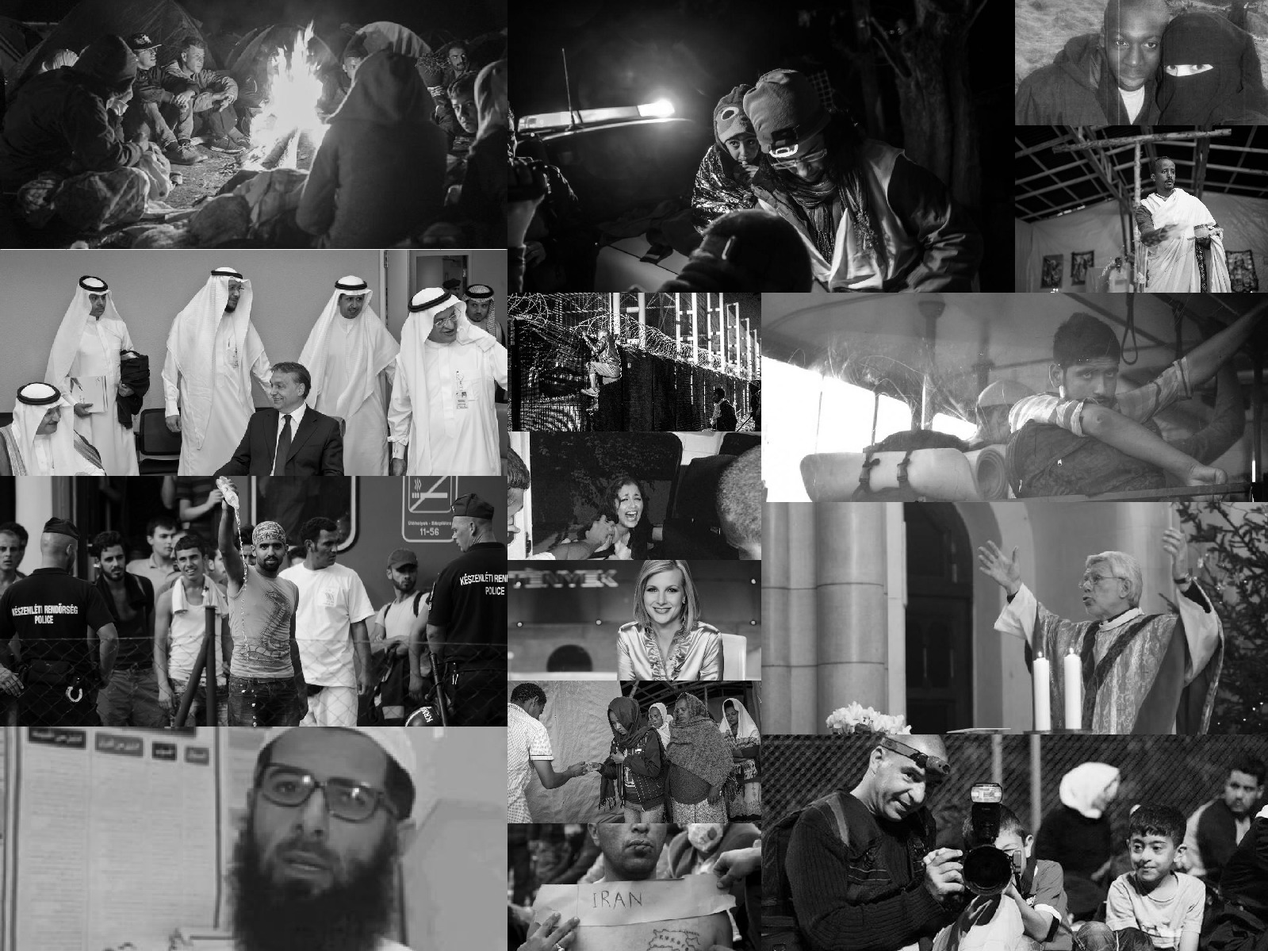
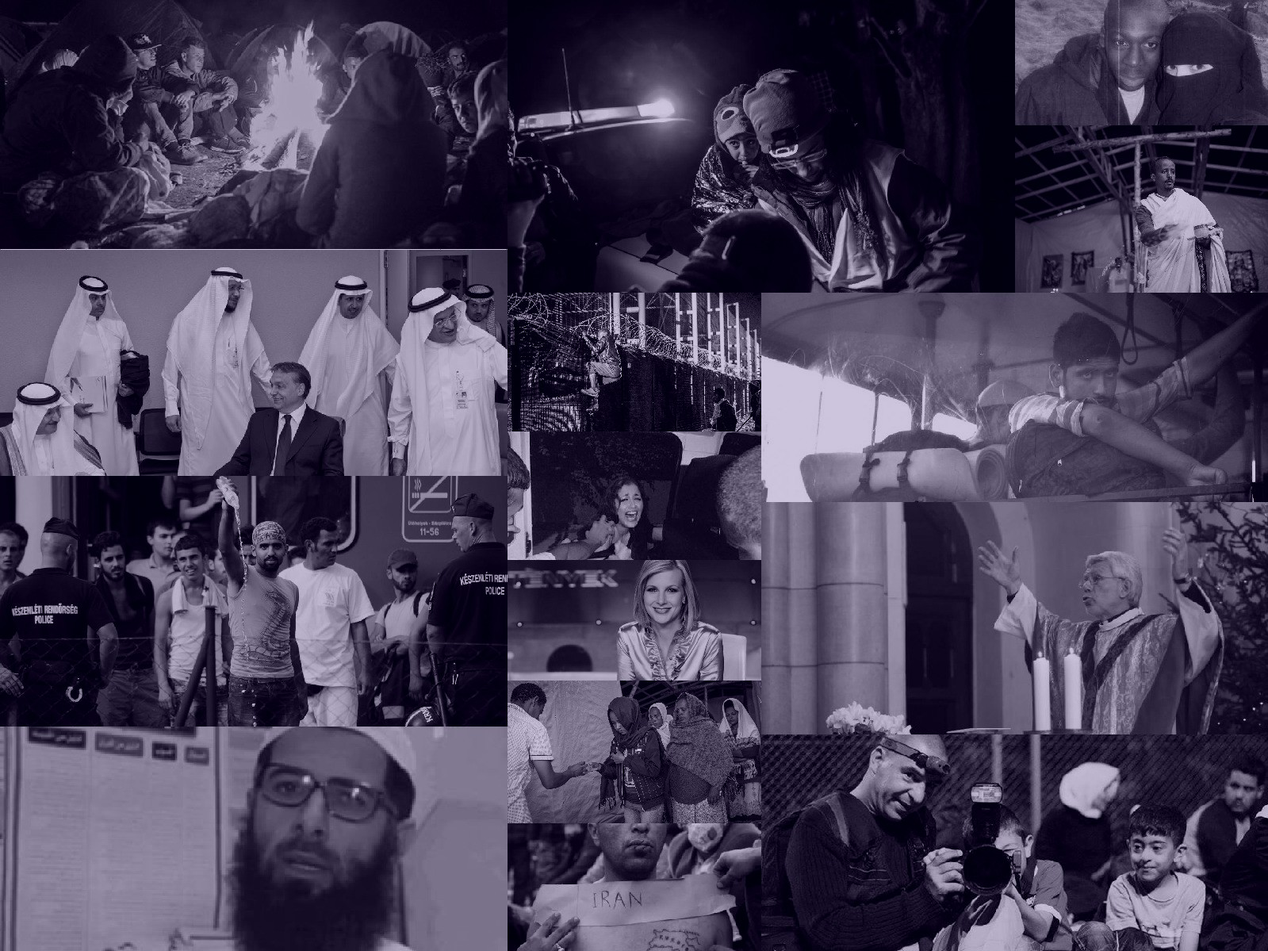
beautify pics, charts + add text

diff --git a/facesofmigration_grayscale/index.html b/facesofmigration_grayscale/index.html
@@ -67,9 +67,11 @@
                     <li>
                         <a class="page-scroll" href="#emotions-title">Emóciók</a>
                     </li>
+<!--
                     <li>
                         <a class="page-scroll" href="#tools-title">Eszközök, források</a>
                     </li>
+-->
                     <li>
                         <a class="page-scroll" href="#credits">Impresszum</a>
                     </li>
@@ -88,7 +90,9 @@
                     <div class="col-md-8 col-md-offset-2">
                         <h1 class="brand-heading">A migráció arcai</h1>
                         <p class="intro-text">Képi tartalomelemzés
-                            <br>Az online médiában 2014.09.27. és 2016.06.11. megjelent 42.845 cikkből kinyert 10330 kép elemzése.</p>
+                            <br>Az online médiában 2014.09.27. és 2016.06.11. megjelent 42.845 cikkből kinyert 10330 kép elemzése.
+                            <br>Nyelvtechnológia, képfeldolgozás, gépi tanulás, deep learning
+                        </p>
                         <a href="#intro" class="btn btn-circle page-scroll">
                             <i class="fa fa-angle-double-down animated"></i>
                         </a>
@@ -105,8 +109,11 @@
                 <h1>Milyen képek jelentek meg a migráció kapcsán az online médiában?</h1>
                 <p>Az elmúlt években napjaink részévé váltak a migránsokról szóló hírek. Elemzésünkben 2014.09.27. és 2016.06.11. az online médiában megjelent cikkek képeit vizsgáljuk. Egy korábbi írásunkban már foglalkoztunk a cikkek szövegeivel a <a href="https://www.nyest.hu/hirek/migransok-menekulok-bevandorlok-mit-sulykol-a-media">nyesten</a> és készítettünk egy <a href="http://labs.precognox.com/migration-dashboard/#/dashboard">dashboardot</a> is, amivel bárki felfedezheti milyen tartalmak jelentek meg a vizsgált időszak alatt. A képi tartalmakat azért tartjuk külön elemzésre érdemesnek, mert a téma meghatározó volta ellenére honfitársaink többsége kizárólag a médiában megjelenő képeken találkozik migránsokkal, ezért úgy gondoljuk, gondolkodásukat nagyban befolyásolja, mit látnak.</p>
                 
-                <h2>Az adatokról</h2>
+                <h2>Az adatok</h2>
                 <p>A korpusz begyűjtéséhez igyekeztük összeszedni a nagyobb hazai online híroldalakat (a teljes listát a dashboardon lehet megtekinteni, a domain szűrűre kattintva). Az egyes oldalak keresőit használva migrációval kapcsolatos kulcsszavakra kerestünk (pl. bevándorló, migráns, stb.), majd a találati oldalakat felhasználva begyűjtöttük a cikkeket. A nyers adatokat hasonlósági metrikát használva csoportosítottuk, a kapott csoportokat annotátoraink megvizsgálták, így kiszűrtük a nem releváns tartalmak javát és a duplikátumokat is. A gyűjtés eredménye 42.845 cikk lett. A cikkekből kinyertük a képeket, ennek eredménye 42.311 darab kép lett, azonban ennek jelentős része nem releváns. Ezek egy részét egyszerű heurisztikával tudtuk szűrni, mivel bizonyos méret alatt képek általában céges logók, vagy az adott oldal nevét jelenítik meg. A szövegekhez hasonlóan itt is hasonlósági hasonló csoportokat képeztünk (a simhash algoritmust használtuk), melyeket annotátoraink néztek át, hogy ki tudjuk szűrni a duplikátumokat és a nem releváns képeket. Végezetül a cikkünkben később leírt topik modellezés segítségével is tudunk azonosítani nem releváns képeket, így 10330 egyedi képünk maradt, melyek XXXXX alkalommal fordulnak elő a cikkekben.</p>
+                
+                <h2>Eredményeink értelmezéséhez</h2>
+                <p>A begyűjtött képeket automatikusan dolgoztuk fel, hiszen több mint tízezer kép alapos megvizsgálása rengeteg időt venne igénybe. Az alkalmazott algoritmusok jellemzője, hogy nem adnak 100%-os eredményt. Fontos kiemelni, hogy mind a demográfiai jellemzők, mind az emóciók kinyerése nagyban függ az arcfelismerő algoritmustól, hiszen feltételezik, hogy egy emberi arcot ábrázoló képet kapnk. Így nem tudnak számot adni a ki nem nyert arcokról, de a hibásan arcként azonosított alakzatokra is eredményt adnak. Az automatikus tartalomelemzés nem helyettesítheti az emberi munkát, csupán segítheti azzal, hogy jól előfeldolgozott adatokat ad értő kezekbe. Vizsgálatunkban erőforrások hiányában a minimális a humán értelmezés, éppen ezért az itt közölt eredmények csak tájékoztató jellegűek.</p>
             </div>
         </div>
     </section>
@@ -230,7 +237,9 @@
         <div class="row">
             <div class="col-lg-8 col-lg-offset-2">
                 <h2>Hogy kapcsolódnak egymáshoz az egyes topikok?</h2>
-                <p>Az egyes topikok közötti kapcsolat alapja az, hogy hányszor fordultak elő együtt egy-egy kép első három, leginkább jellemző topikjaként.</p>
+                <p>Az egyes topikok közötti kapcsolat alapja az, hogy hányszor fordultak elő együtt egy-egy kép első három, leginkább jellemző topikjaként. <br />
+                Az "Adatok" topik központi szerepének oka egyszertű; sokszor szerepel valamilyen felirat a képeken, legyen az útjelzőtábla, felirat egy pólón, vagy egy névtábla egy előadó előtt.
+                </p>
             </div>
         </div>
             <object data="img/topic_graph.svg" type="image/svg+xml" style="width: 70vw; height: 50vw;">
@@ -255,12 +264,18 @@
     <section id="pictures-intro" class="container content-section text-center">
         <div class="row">
             <div class="col-lg-8 col-lg-offset-2">
-                <h1>Hogyan dolgoztuk fel a képeket</h1>
-                <p>blabla blabla blabla blabla blabla blabla blabla blabla blabla blabla blabla blabla blabla blabla blabla blabla blabla blabla blabla blabla blabla blabla blabla blabla blabla blabla blabla blabla blabla blabla blabla blabla blabla blabla blabla blabla blabla blabla blabla blabla blabla blabla blabla blabla blabla blabla blabla blabla blabla blabla blabla blabla blabla blabla blabla blabla blabla blabla blabla blabla blabla blabla blabla blabla blabla blabla blabla blabla blabla blabla blabla blabla blabla blabla blabla blabla blabla blabla blabla blabla blabla blabla blabla blabla blabla blabla blabla blabla blabla blabla blabla blabla blabla blabla blabla blabla blabla blabla blabla blabla blabla blabla blabla blabla blabla blabla blabla blabla blabla blabla blabla blabla blabla blabla blabla blabla blabla blabla blabla blabla blabla blabla blabla blabla blabla blabla blabla blabla blabla blabla blabla blabla blabla blabla blabla blabla blabla blabla blabla blabla blabla blabla blabla blabla blabla blabla blabla blabla blabla blabla blabla blabla </p>
+                <h1>Képfeldolgozás</h1>
                 
-                <h2>A Deep Learningről</h2>
-                <p>blabla blabla blabla blabla blabla blabla blabla blabla blabla blabla blabla blabla blabla blabla blabla blabla blabla blabla blabla blabla blabla blabla blabla blabla blabla blabla blabla blabla blabla blabla blabla blabla blabla blabla blabla blabla blabla blabla blabla blabla blabla blabla blabla blabla blabla blabla blabla blabla blabla blabla blabla blabla blabla blabla blabla blabla blabla blabla blabla blabla blabla blabla blabla blabla blabla blabla blabla blabla blabla blabla blabla blabla blabla blabla blabla blabla blabla blabla blabla blabla blabla blabla blabla blabla blabla blabla blabla blabla blabla blabla blabla blabla blabla blabla blabla blabla blabla blabla blabla blabla blabla blabla blabla blabla blabla blabla blabla blabla blabla blabla blabla blabla blabla blabla blabla blabla blabla blabla blabla blabla blabla blabla blabla blabla blabla blabla blabla blabla blabla blabla blabla blabla blabla blabla blabla blabla blabla blabla blabla blabla blabla blabla blabla blabla blabla blabla blabla blabla blabla blabla blabla blabla blabla blabla blabla blabla </p>
+                <h2>Arcfelismerés</h2>
+                <p>Kipróbáltunk több szabadon elérhető arcfelismerő eszközt is, de végül az <a href="http://opencv.org/">OpenCV</a> könyvtár előre trénelt Haar Cascade modellje mellett döntöttünk. Döntésünk során figyelembe kellett vennünk, hogy képeink többsége "spontán" pillanatokat ábrázol, azaz a rajtuk látható emberek gyakran nem a kamera felé néznek éppen, fejükön kalap, kapucni, vagy fejkendő van, esetleg éppen esznek s kezüket szájuk előtt tartják. A Haar Cascade a szakirodalom szerint akár 90%-os pontosságú is lehet, ezt esetünkben bizonyosan meg sem közelíti, de a többi vizsgált algoritmussal szemben sokkal kisebb fals pozitív eredményt adott, ezért választottuk ki.</p>
                 
+                <h2>Nem- és kormeghatározás</h2>
+                <p>Több szabadon elérhető eszköz megvizsgálása után úgy döntöttünk, hogy saját osztályozót készítünk a nem- és kormeghatározáshoz. Tanítadathalmazunk az <a href="https://data.vision.ee.ethz.ch/cvl/rrothe/imdb-wiki/">IMDB-WIKI-500k</a> adathalmaz volt, ami az IMDB adatbázisban szereplő színészek képeit és a róluk elérhető adatokat (nem, kor) tartalmazza. Az adatokon a <a href="https://keras.io/">Keras</a> deep learning keretrendszer segítségével egy-egy <a href="https://en.wikipedia.org/wiki/Convolutional_neural_network">konvolúciós neurális hálót</a> tréneltünk nem- és kormeghatározásra. A kormeghatározás pontossága 81%-os, osztályozónk főleg a 14 évesnél fiatalabb és a hatvannál idősebb emberek esetében téved, illetve a 30-40 közötti kategórákban. A nemazonosítás pontossága 77%, itt a 14 alattiak esetében szinte mindig férfi, a 60 felettieknél miding női címkét ad vissza algoritmusunk. Ha öszevetjük a kor és nem adatokat, azt látjuk, hogy a nők esetében +/- 5 évet, a férfiak esetében +/- 3 évet téved átlagosan algoritmusunk.</p>
+                
+                <h2>Emóciók</h2>
+                <p> IDE JÖN GERGŐ SZÖVEGE MAJD blabla blabla blabla blabla blabla blabla blabla blabla blabla blabla blabla blabla blabla blabla blabla blabla blabla blabla blabla blabla blabla blabla blabla blabla blabla blabla blabla blabla blabla blabla blabla blabla blabla blabla blabla blabla blabla blabla blabla blabla blabla blabla blabla blabla blabla blabla blabla blabla blabla blabla blabla blabla blabla blabla blabla blabla blabla blabla blabla blabla blabla blabla blabla blabla blabla blabla blabla blabla blabla blabla blabla blabla blabla blabla blabla blabla blabla blabla blabla blabla blabla blabla blabla blabla blabla blabla blabla blabla blabla blabla blabla blabla blabla blabla blabla blabla blabla blabla blabla blabla blabla blabla blabla blabla blabla blabla blabla blabla blabla blabla blabla blabla blabla blabla blabla blabla blabla blabla blabla blabla blabla blabla blabla blabla blabla blabla blabla blabla blabla blabla blabla blabla blabla blabla blabla blabla blabla blabla blabla blabla blabla blabla blabla blabla blabla blabla blabla blabla blabla blabla blabla blabla blabla blabla blabla blabla </p>
+                
+                <p>A szabadon elérhető emóciófelismerő eszközök áttekintése után úgy döntöttünk, hogy saját algoritmust tanítunk be, amihez a <a href="https://www.kaggle.com/c/challenges-in-representation-learning-facial-expression-recognition-challenge/data">fer2013 adathalmazt</a> használtuk. Ehhez a feladathoz is a <a href="https://keras.io/">Keras</a> deep learning keretrendszer segítségével  tréneltünk egy <a href="https://en.wikipedia.org/wiki/Convolutional_neural_network">konvolúciós neurális hálót</a>, mely pontossága 70% (azaz az adott emócióként azonosított képek ekkora hányadára valós a megállapítása), felidézése pedig 58% (azaz adott emócióhoz tartozó képek ekkora hányadát azonosítja). Eredményeink nem a legjobbak, de figyelembe véve, hogy egy ember számára is nehézséget jelent pusztán egy arc alapján azonosítani ey emóciót, megelégedhetünk az elért teljesítménnyel. Algoritmusunk szeret biztosra menni, ezért ha hibázik, akkor neutrálisnak tippeli az adott arckifejezést. Szintén gyakori hiba a meglepődés örömként történő azonosítása, illetve a negatív érzelmek összekeverése. Ha a nem és kor adatokkal is kiegészítjük vizsgálódásunkat, azt találjuk, hogy nők és húszév alattiak esetében sokkal gyakoribbak a hibák, a legjobban középkorú férfiaknál tippeli meg algoritmusunk az adott arckifejezés mögött rejlő emóciót.</p>
             </div>
         </div>
     </section>
@@ -456,9 +471,6 @@
                 <h1>Az egyes topikokhoz tartozó képek demográfiai jellemzői</h1>
                 <p>Az egyik toposz a mobilozó fiatal fiúk, a katonaság elől elszaladók, stb. A UNHCR adatai alapján igaz az, hogy inkább fiatal férfiak a migránsok (na jó, amiket nézegettem adatok, az alapján igaz ez, de nem szedtem le még az EU-27 adatait), de vajon a médiában megjelenő képek mennyire mutatják a valós arányokat?</p>
                 
-                <h2>Arcfelismerés, kor- és nemazonosítás - egy kis gépi tanulás és mesterséges intelligencia</h2>
-                <p>Arcfelismerésre Python OpenCV Haar Cascade, kor- és nemazonosításhoz IMDB dataset-re Kerasban épített CNN. A kiértékelés alapján azt mondhatjuk, hogy adataink inkább tájékoztató jellegűek, de ekkora képmennyiségnél örülünk, hogy ez pár óra alatt lefut és nem kell átnézni a képeket magunknak.</p>
-                
                 <h2>Mit tudunk a regisztrált menekültek demográfiai jellemzőiről?</h2>
                 <p>Ide jöhez hogy a statisztika 18-59 meg egyéb kategóriákat használ.</p>
             </div>
@@ -481,22 +493,54 @@
       <li data-target="#myCarousel" data-slide-to="Topik 0" class="active"></li>
       <li data-target="#myCarousel" data-slide-to="1"></li>
       <li data-target="#myCarousel" data-slide-to="2"></li>
+      <li data-target="#myCarousel" data-slide-to="3"></li>
+      <li data-target="#myCarousel" data-slide-to="4"></li>
+      <li data-target="#myCarousel" data-slide-to="6"></li>
+
     </ol>
 
     <!-- Wrapper for slides -->
     <div class="carousel-inner">
       <div class="item active">
-        <iframe src="iframes/test.html" style="height: 80vw; width: 80vw;" frameBorder="0" scrolling="no"></iframe>
-
+          <iframe src="iframes/test.html" style="height: 50vw; width: 80vw;" frameBorder="0" scrolling="no"></iframe>
+           <div class="carousel-caption">
+      	         <h3>Nagyobb csoportok: táborban, Keletinél, tüntetésen, fronton</h3>
+            </div>
       </div>
 
       <div class="item">
-        <iframe src="iframes/test.html" style="height: 80vw; width: 80vw;" frameBorder="0" scrolling="no"></iframe>
-
+        <iframe src="iframes/test.html" style="height: 50vw; width: 80vw;" frameBorder="0" scrolling="no"></iframe>
+         <div class="carousel-caption">
+      	         <h3>Kisebb csoportok, egyéni portrék: menekültek, média személyiségek, vallási vezetők</h3>
+            </div>
       </div>
     
       <div class="item">
-        <iframe src="iframes/test.html" style="height: 80vw; width: 80vw;" frameBorder="0" scrolling="no"></iframe>
+        <iframe src="iframes/test.html" style="height: 50vw; width: 80vw;" frameBorder="0" scrolling="no"></iframe>
+           <div class="carousel-caption">
+      	         <h3>Úton: vonat, busz, hajó, gyalog</h3>
+            </div>
+      </div>
+        
+        <div class="item">
+        <iframe src="iframes/test.html" style="height: 50vw; width: 80vw;" frameBorder="0" scrolling="no"></iframe>
+           <div class="carousel-caption">
+      	         <h3>Kisebb csoportok: családok, egyének, menekültek, politikusok, fegyveres testületek tagjai</h3>
+            </div>
+      </div>
+        
+        <div class="item">
+        <iframe src="iframes/test.html" style="height: 50vw; width: 80vw;" frameBorder="0" scrolling="no"></iframe>
+           <div class="carousel-caption">
+      	         <h3>Egyéni portrék, kis csoportok: politikusok, véleményformálók, ismert emberek</h3>
+            </div>
+      </div>
+        
+        <div class="item">
+        <iframe src="iframes/test.html" style="height: 50vw; width: 80vw;" frameBorder="0" scrolling="no"></iframe>
+           <div class="carousel-caption">
+      	         <h3>Átkelés: kerítésnél, határon, tengeren	ut</h3>
+            </div>
       </div>
     </div>
 
@@ -546,11 +590,6 @@
                 <h1>Az egyes topikokban talált arcokon azonosított emóciók</h1>
                 <p>Egyes topikokban, mint például az "Átkelés" és az "Úton" a felismert arcok száma kevesebb mint a képek 10%-a, de a "Nagyobb csoportok" esetében is csupán harmada, még a "Kisebb csoportok: menekültek, médiaszemélyiségek, vallási vezetők", "Kisebb csoportok: családok, egyének, menekültek, politikusok, fegyveres testületek tagjai" és "Egyéni portrék, kis csoportok" esetében a képekhez viszonyítva sok arcot azonosított algoritmusunk. Az "Átkelés" és "Úton" topikokban inkább menekülteket, az "Egyéni potrék, kis csoportok" esetében főleg hazai és európai politikusokat láthatunk, a két kisebb csoportokat tartalmazó topik pedig vegyes. A menekülteket mozgásban mutató képek esetében tehát igazolódni látszik, hogy arctalan tömegként szereti őket mutatni a média. Az arcfelismerés azonban nem csak azért hasznos, mert lehetővé teszi a nem és kor beazonosítását (alogritmikusan bizonyos határok között), de arcunkon óhatatlanul is megjelennek érzelmeink. Érdemes megvizsgálni, hogy a különböző topikokban a történet különböző szereplői milyen érzelmeket nyilvánítanak ki. A szakasz első vizualizációja szertné a különböző topikokban megjelnő hat alapvető érzelmet és a semlegességet összevethetővé tenni.</p>
                 
-                <h2>Emóciófelismerés</h2>
-                <p>Darwin, Ekmann és a szokásos duma</p>
-                
-                <h2>Arc- és emóciófelismerés - egy kis gépi tanulás és mesterséges intelligencia</h2>
-                <p>Python OpenCV Haar Cascade arcra, fer2013 adaton Kerasban trénelt CNN klasszifikációra. Kiértékelés. Téved: semlegesnek tippeli inkább a negatívat, meglepődés inkább öröm</p>
                 
                 <h2>Hogyan alakultak az érzelmek időben? - Szonifikáció</h2>
                 <p>Mivel ismerjük minden egyes cikk publikálásának dátumát, ismerjük a képek (első) megjelnésének idejét is. Az egyes emóciók idősoraiból MIDI hangsávot generáltunk egy-egy hangszerre, a megszólaló hangok erőssége az adott emócióval arányos. A hat (hét, ha semlegesre is megcsináljuk) hangsávot külön-külön mutatja a szekció második vizualizációja, ami valójában szonifikáció, hiszen le is lehet játszani az adatokat.</p>
@@ -570,7 +609,8 @@
         </div>
     </section>
 
-    <!-- Sonification -->
+<!--
+     Sonification 
     <div class="sonic-container">
     <section id="sonic" class="container content-section text-center">
         <div class="row">
@@ -581,8 +621,9 @@
             <iframe src="iframes/sonic.html" style="height: 100vw; width: 70vw;" frameBorder="0" scrolling="no"></iframe>
         </div>
     </section>
+-->
+<!--    
     
-    <!-- Tools Title -->
     <section id="tools-title" class="content-section text-center">
         <div class="tools-section">
             <div class="container">
@@ -593,7 +634,6 @@
         </div>
     </section>
     
-     <!-- Tools Intro -->
     <section id="tools-intro" class="container content-section text-center">
         <div class="row">
             <div class="col-lg-8 col-lg-offset-2">
@@ -641,6 +681,7 @@
                     </ul>
                 </p>
                 
+
                 <h3>A felhasznált képek forrásai</h3>
                 <p>
                     <ul>
@@ -654,7 +695,7 @@
             </div>
         </div>
     </section>
-   
+-->
     <!-- Credits -->
     <section id="credits" class="content-section text-center">
         <div class="download-section">
@@ -662,14 +703,14 @@
                 <div class="col-lg-8 col-lg-offset-2">
                     <h2>Készítették:</h2>
                     <p><a href="https://www.linkedin.com/in/n%C3%B3ra-f%C3%BCl%C3%B6p-6467a8133/">Fülöp Nóra</a></p>
-                    <p><a href="https://www.linkedin.com/in/ily%C3%A9s-vir%C3%A1g-aa131392/">Ilyés Virág</a>, <a href="http://precognox.com/">Precognox</a></p>
-                    <p><a href="https://www.linkedin.com/in/gergely-morvay-8134a813a/">Morvay Gergely</a>, <a href="http://precognox.com/">Precognox</a></p>
-                    <p><a href="https://www.linkedin.com/in/zoltanvarju/">Varjú Zoltán</a>, <a href="http://precognox.com/">Precognox</a></p>
+                    <p><a href="https://www.linkedin.com/in/ily%C3%A9s-vir%C3%A1g-aa131392/">Ilyés Virág</a></p>
+                    <p><a href="https://www.linkedin.com/in/gergely-morvay-8134a813a/">Morvay Gergely</a></p>
+                    <p><a href="https://www.linkedin.com/in/zoltanvarju/">Varjú Zoltán</a></p>
                     <h3>Az adatfeldolgozásban segítettek:</h3>
                     
-                        <p>Lázár Bernadett</p>
-                        <p>Nyíri Zsófi</p>
-                        <p>Szabó Martina Katalin</p>                    
+                        <p><a href="https://www.linkedin.com/in/bernadett-l%C3%A1z%C3%A1r-215678129/">Lázár Bernadett</a></p>
+                        <p><a href="https://www.linkedin.com/in/zsofi-nyiri-158530b2/">Nyíri Zsófi</a></p>
+                        <p><a href="https://www.linkedin.com/in/szab%C3%B3-martina-katalin-650a0a124/">Szabó Martina Katalin</a></p>                    
                 </div>
             </div>
         </div>
@@ -682,7 +723,7 @@
     <!-- Footer -->
     <footer>
         <div class="container text-center">
-            <p>Copyright &copy; Precognox, Nyelv és Tudomány 2017</p>
+            <p>Copyright &copy; <a href="http://precognox.com/">Precognox</a>, <a href="https://www.nyest.hu/">Nyelv és Tudomány</a> 2017</p>
         </div>
     </footer>
 

diff --git a/facesofmigration_grayscale/css/grayscale.css b/facesofmigration_grayscale/css/grayscale.css
@@ -16,7 +16,6 @@ html {
 }
 
 
-
 h1,
 h2,
 h3,
@@ -62,7 +61,7 @@ p {
     width: 100%;
     height: 140%;
     flex-direction: column;
-    background-color: goldenrod;
+    background-color: black;
     flex-wrap: wrap;
     overflow: hidden;
 
@@ -95,15 +94,16 @@ p {
 
 
 a {
-  color: #42DCA3;
+  color: coral;
   -webkit-transition: all 0.2s ease-in-out;
   -moz-transition: all 0.2s ease-in-out;
   transition: all 0.2s ease-in-out;
+  font-weight: 900;
 }
 a:hover,
 a:focus {
-  text-decoration: none;
-  color: #1d9b6c;
+  color: crimson;
+  font-weight: 900;
 }
 .light {
   font-weight: 400;
@@ -277,11 +277,11 @@ a:focus {
 .content-section {
   padding-top: 100px;
 }
-.download-section {
+.download-section{
   width: 100%;
   padding: 50px 0;
-  color: white;
-  background: url(../img/Drehscheibe_Köln-Bonn_Airport_-_Ankunft_Flüchtlinge_5._Oktober_2015-0308.jpg) no-repeat center center scroll;
+  color: coral;
+  background: url(../img/img_topics/topic06.jpg) no-repeat center center scroll;
   background-color: black;
   -webkit-background-size: cover;
   -moz-background-size: cover;
@@ -294,7 +294,7 @@ a:focus {
   height: 130%;
   padding: 300px 0;
   color: coral;
-  background: url(../img/01topicmodels.jpg) no-repeat center center scroll;
+  background: url(../img/picturesg.jpg) no-repeat center center scroll;
   background-color: black;
   -webkit-background-size: cover;
   -moz-background-size: cover;

diff --git a/facesofmigration_grayscale/css/nv.d3.css b/facesofmigration_grayscale/css/nv.d3.css
@@ -63,7 +63,7 @@
 }
 
 .nvd3 .nv-bars .hover text {
-    fill: rgba(0,0,0,1);
+    fill: rgba(0,0,0,0);
 }
 
 .nvd3 .nv-multibar .nv-groups rect,
@@ -112,7 +112,7 @@
 .nvd3.nv-bullet .nv-measure { fill-opacity: .8; }
 .nvd3.nv-bullet .nv-measure:hover { fill-opacity: 1; }
 .nvd3.nv-bullet .nv-marker { stroke: #000; stroke-width: 2px; }
-.nvd3.nv-bullet .nv-markerTriangle { stroke: #000; fill: #fff; stroke-width: 1.5px; }
+.nvd3.nv-bullet .nv-markerTriangle { stroke: #000; fill: #000; stroke-width: 1.5px; }
 .nvd3.nv-bullet .nv-markerLine { stroke: #000; stroke-width: 1.5px; }
 .nvd3.nv-bullet .nv-tick line { stroke: #666; stroke-width: .5px; }
 .nvd3.nv-bullet .nv-range.nv-s0 { fill: #eee; }
@@ -272,6 +272,7 @@ svg.nvd3-svg {
 
 .nvd3 text {
     font: normal 12px Arial, sans-serif;
+    fill: white;
 }
 
 .nvd3 .title {
@@ -322,9 +323,9 @@ svg.nvd3-svg {
 }
 
 .nvd3 .nv-brushBackground rect {
-    stroke: #000;
+    stroke: white;
     stroke-width: .4;
-    fill: #fff;
+    fill: white;
     fill-opacity: .7;
 }
 
@@ -336,6 +337,7 @@ svg.nvd3-svg {
     .nvd3 text {
         stroke-width: 0;
         fill-opacity: 1;
+        color: white;
     }
 }
 

diff --git a/facesofmigration_grayscale/iframes/test.html b/facesofmigration_grayscale/iframes/test.html
@@ -32,7 +32,7 @@
 <script>
 
 
-    var long_short_data = [
+var long_short_data = [
         {
         key: 'Nő',
         values: [
